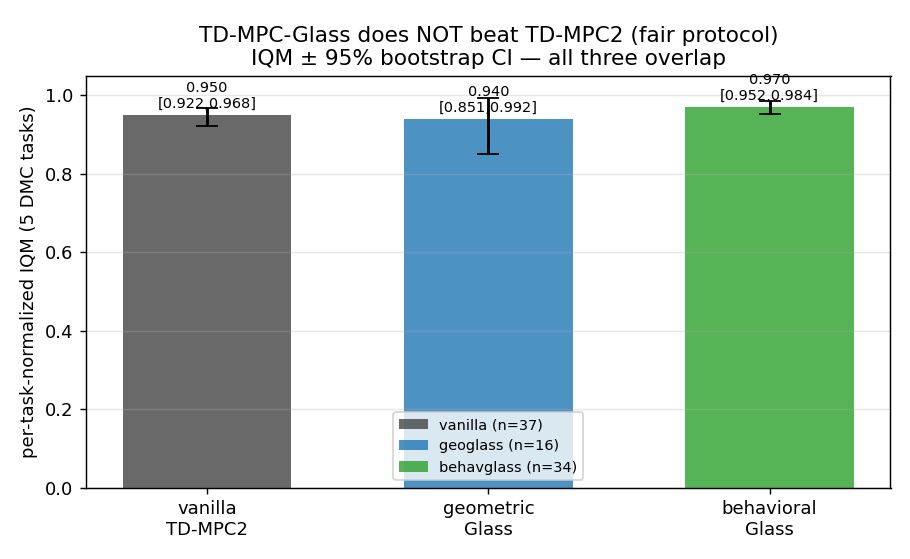
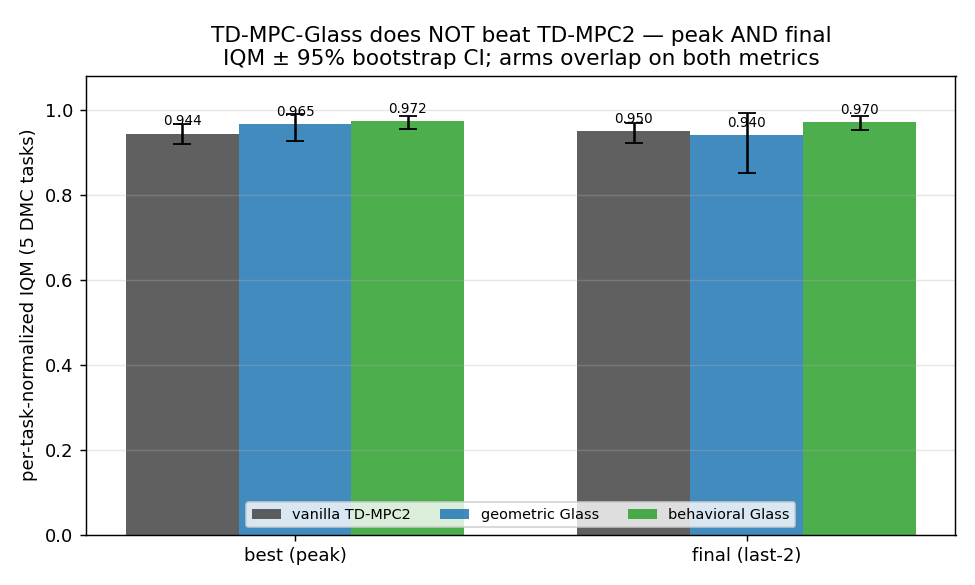
Blog §0: peak AND final Glass-vs-TD-MPC2 null (table + grouped CI plot)

diff --git a/content/projects/2026-06-09-tdmpc-glass-part2-mechanism-check-saved-a-campaign.md b/content/projects/2026-06-09-tdmpc-glass-part2-mechanism-check-saved-a-campaign.md
@@ -30,15 +30,21 @@ off-at-1M beats our internal TD-MPC2 mean on HopperHop, 5-seed confirmations con
 honest closure of that thread: **under a fair, single-variable, adequately-powered protocol, Glass does
 not beat TD-MPC2.** Per-task-normalized IQM over five DMC tasks, with 95% bootstrap CIs:
 
-![TD-MPC-Glass does not beat TD-MPC2: IQM ± 95% CI, all three arms overlap](/images/glass_vs_tdmpc2_null.png)
+We report **both** metrics this project lives by — best/peak (best checkpoint per seed) and final (last-2
+evals) — so no one can object that the null is a reporting artifact:
 
-- vanilla TD-MPC2: **0.950** [0.922, 0.968] (n=37)
-- geometric Glass: **0.940** [0.851, 0.992] (n=16)
-- behavioral Glass: **0.970** [0.952, 0.984] (n=34)
+| arm | best (peak) IQM, 95% CI | final IQM, 95% CI |
+|---|---|---|
+| vanilla TD-MPC2 (n=37) | 0.944 [0.919, 0.965] | 0.950 [0.922, 0.968] |
+| geometric Glass (n=16) | 0.965 [0.925, 0.989] | 0.940 [0.851, 0.992] |
+| behavioral Glass (n=34) | 0.972 [0.953, 0.986] | 0.970 [0.952, 0.984] |
 
-All three intervals **overlap** — no arm is statistically separated from vanilla. The behavioral arm's
-+0.02 nominal edge sits inside the noise (and, as Part 1's §5 showed, its per-snapshot estimate wandered
-to *both* sides of baseline as seeds accumulated). The hopeful HopperHop "win" was **basin-lottery**: under
+![TD-MPC-Glass does not beat TD-MPC2 on peak OR final: IQM ± 95% CI, all arms overlap](/images/glass_vs_tdmpc2_null.png)
+
+On **both** peak and final, all three intervals **overlap** vanilla — no arm is statistically separated.
+The behavioral arm's +0.02–0.03 nominal edge sits inside the noise on either metric (and, as Part 1's §5
+showed, its per-snapshot estimate wandered to *both* sides of baseline as seeds accumulated). The hopeful
+HopperHop "win" was **basin-lottery**: under
 the clean protocol neither Glass nor vanilla entered the high-reward basin (best 323 vs 286), so the earlier
 edge came from restarts/seed-luck, not the representation.
 